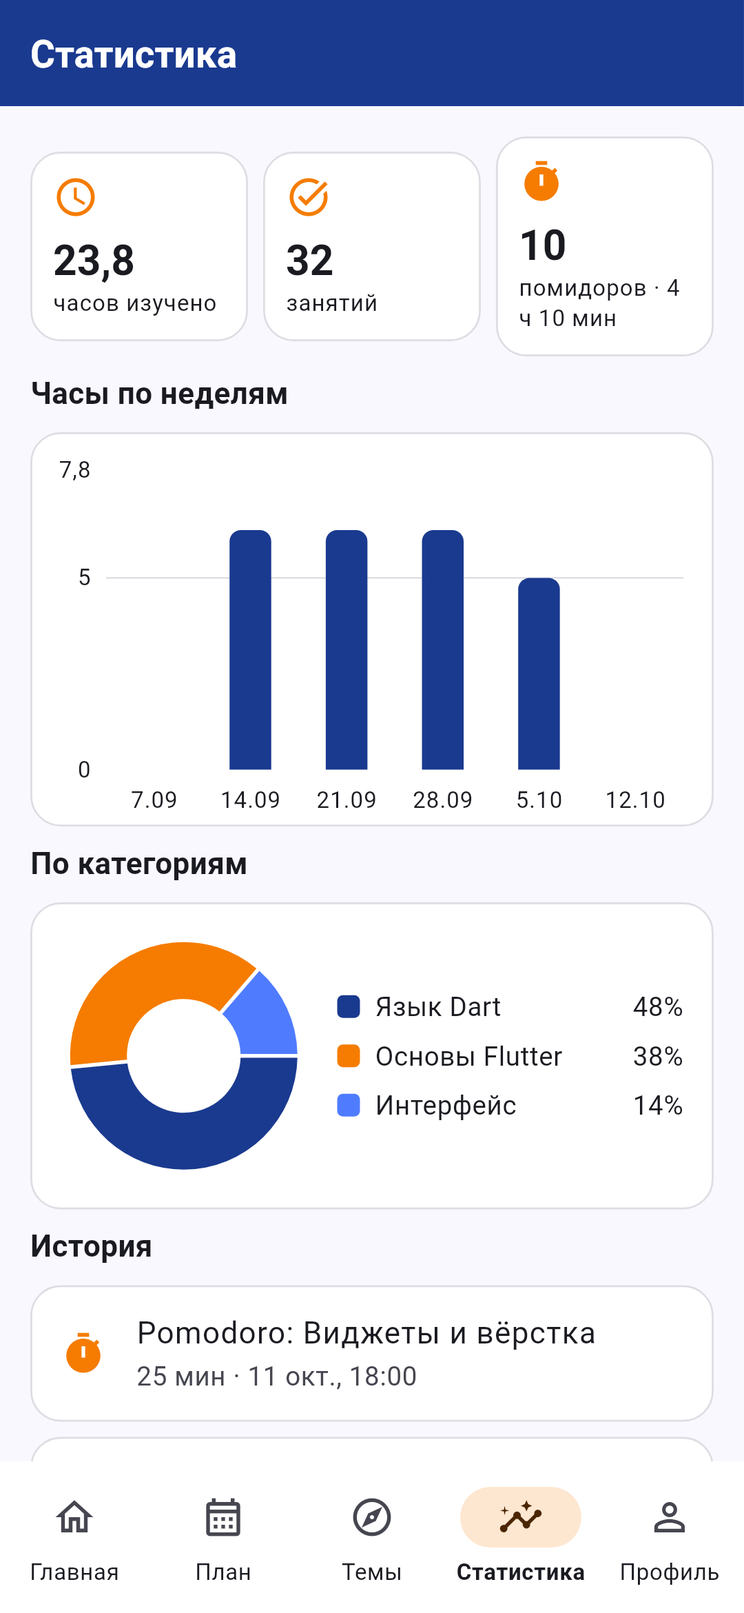
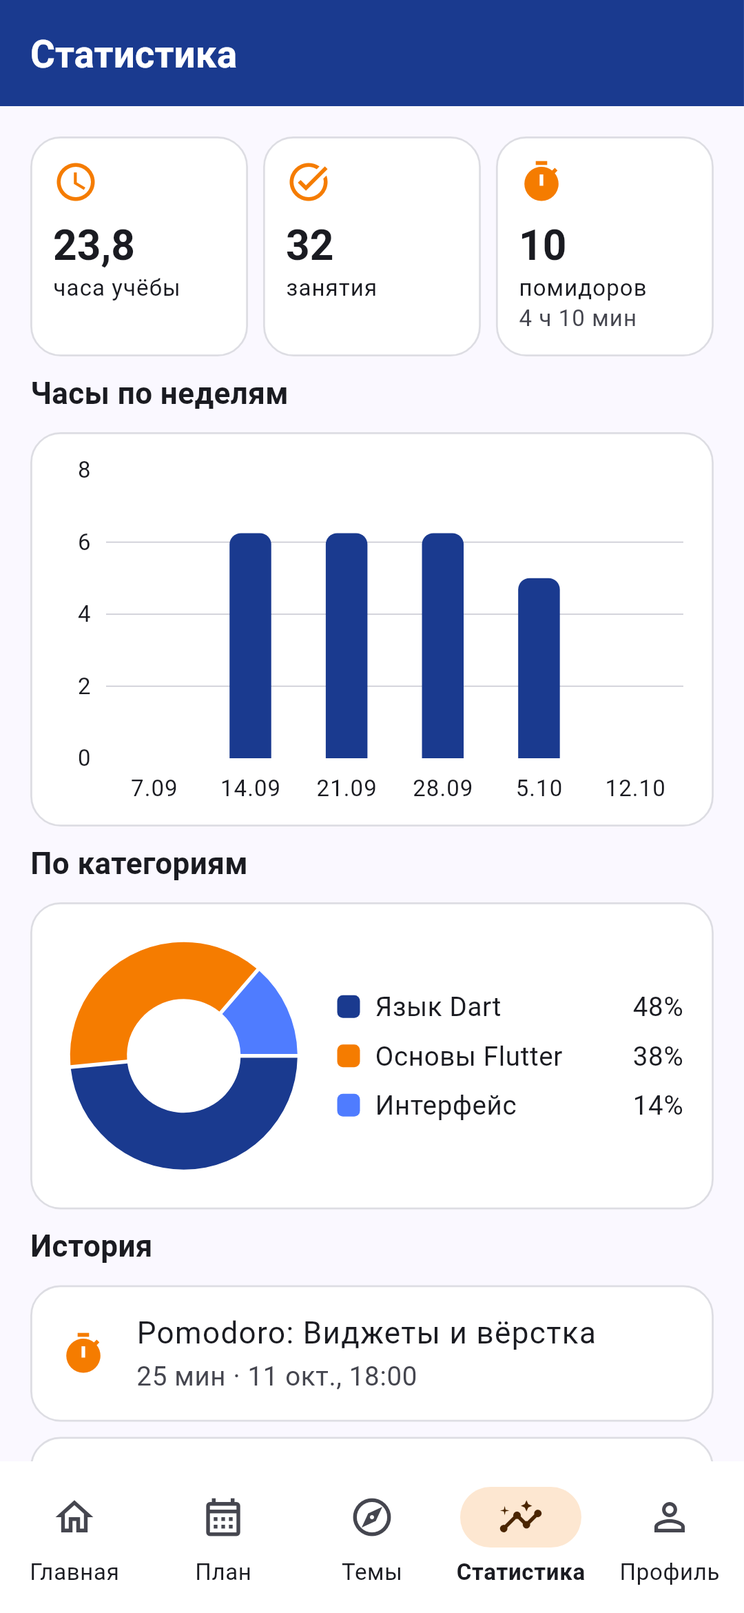
Документация: ошибки № 13–23, матрица снимков, 97 тестов, новые скриншоты
Claude-Session: https://claude.ai/code/session_01M7NW7KzTcoGm6LcSGjUPNJ

diff --git a/docs/coursework/testing.md b/docs/coursework/testing.md
@@ -8,7 +8,7 @@
 2. **Виджет-тесты** запускают экраны или всё приложение в тестовой среде Flutter. База данных — настоящая SQLite в оперативной памяти, время зафиксировано (понедельник, 12.10.2026), уведомления заменены заглушкой. Так тесты не зависят от дня запуска и не трогают данные пользователя.
 3. **Интеграционный тест** запускает настоящее приложение в окне операционной системы и проходит сценарий как пользователь [22].
 
-Кроме автоматических тестов использовались ручные проверки: скриншоты всех экранов (генератор `tool/screenshots`), запуск настольной версии, сверка настроек проекта с документацией пакетов.
+Кроме автоматических тестов использовались ручные проверки: скриншоты всех экранов (генератор `tool/screenshots`), запуск настольной версии, сверка настроек проекта с документацией пакетов. Перед сдачей интерфейс проверен по матрице снимков (`tool/screenshots/qa_matrix_test.dart`): каждый экран снимается в семи вариантах — светлая и тёмная тема, телефон 393×851, маленький телефон 360×640, крупный системный шрифт (130 %), горизонтальная ориентация и окно 1280×800, у длинных экранов дополнительно снимается конец. Всего 280 снимков; ошибки вёрстки, которые сообщает Flutter, программа собирает в отдельный файл, а сами снимки просматриваются вручную.
 
 Все тесты запускаются автоматически в GitHub Actions при каждой отправке кода (файл `.github/workflows/build.yml`): проверка форматирования, `flutter analyze`, `flutter test`, интеграционный тест в Linux на виртуальном экране, затем сборка APK и версии для Windows.
 
@@ -24,6 +24,7 @@
 | `test/core/validators_test.dart` | Модульный | Правила для email, пароля, имени, часов | 9 |
 | `test/core/password_hasher_test.dart` | Модульный | PBKDF2-HMAC-SHA256 по эталонным значениям, соль, проверка пароля, совместимость со старыми хэшами SHA-256 | 11 |
 | `test/core/router_test.dart` | Модульный | Правило доступа `redirect`: закрытые экраны без входа недоступны | 3 |
+| `test/core/formatters_test.dart` | Модульный | Склонение слов после чисел, «часа» после дробного числа часов, запись часов и минут | 3 |
 | `test/data/catalog_test.dart` | Модульный | Загрузка каталога из JSON, понятная ошибка при повреждённом файле, кэширование | 3 |
 | `test/data/repositories_test.dart` | Модульный (база SQLite в памяти) | Регистрация, вход, смена пароля, миграция хэшей, удаление аккаунта; планы, занятия, свои темы, избранное, заметки | 18 |
 | `test/presentation/auth_screens_test.dart` | Виджет | Ошибки форм входа и регистрации, автовход | 5 |
@@ -32,7 +33,7 @@
 | `test/presentation/profile_test.dart` | Виджет | Напоминание, недоступность напоминаний на компьютере, удаление аккаунта | 3 |
 | `test/presentation/adaptive_test.dart` | Виджет | Все 15 экранов и онбординг без переполнения на телефоне, телефоне в горизонтальной ориентации и в окне Windows | 3 |
 | `integration_test/app_test.dart` | Интеграционный | Настоящее приложение: регистрация, вход, создание плана, вкладки, выход | 1 |
-| **Итого** | | | **95** |
+| **Итого** | | | **98** |
 
 ## 3. Тест-кейсы
 
@@ -49,7 +50,7 @@
 | ТК-07 | Автовход | Войти с «Запомнить меня», перезапустить приложение | Сразу открывается главная | `auth_screens_test` |
 | ТК-08 | Сессия удалённого пользователя | В настройках сохранён id пользователя, которого нет в базе | Открывается экран входа | `auth_screens_test` |
 | ТК-09 | Закрытые разделы | Без входа открыть адрес `/home`, `/plan` | Перенаправление на вход | `router_test` |
-| ТК-10 | Создание плана | Направление → пропустить тест → расписание → «Составить план» → «Сохранить» | Предпросмотр «Ваш план готов», затем на главной задачи на сегодня | `app_flow_test`, `integration_test` |
+| ТК-10 | Создание плана | Направление → пропустить тест → расписание → «Сформировать план» → «Начать обучение» | Предпросмотр «Ваш план готов», затем на главной задачи на сегодня | `app_flow_test`, `integration_test` |
 | ТК-11 | Диагностический тест | Верно ответить на вопрос по сложной теме | Тема и все её предшественники исключаются из плана | `knowledge_estimator_test`, `plan_generator_test` |
 | ТК-12 | Порядок тем | Построить план по графу тем | Каждая тема идёт после своих зависимостей; цикл в данных даёт понятную ошибку | `topological_sort_test`, `plan_generator_test` |
 | ТК-13 | Лимит часов | 7 часов в неделю, 5 учебных дней | Занятия только в выбранные дни, дневной лимит не превышен, общий объём сохранён | `scheduler_test` |
@@ -74,6 +75,8 @@
 | ТК-32 | Адаптивность | Открыть все экраны на телефоне, в горизонтальной ориентации и в окне 1280×800 | Нет переполнения; на широком экране боковая панель вместо нижней | `adaptive_test` |
 | ТК-33 | Повреждённый каталог | Загрузить некорректный JSON направления | Понятное сообщение об ошибке вместо падения | `catalog_test` |
 | ТК-34 | Сценарий на настоящем приложении | Запустить приложение в окне Linux | Сценарий регистрация → вход → план → профиль → выход проходит | `integration_test` (ошибка № 11) |
+| ТК-35 | Узкий экран и крупный шрифт | Открыть все экраны на телефоне 360×640 и с системным шрифтом 130 % | Нет переполнения, слова не переносятся посреди слова, подписи вкладок в одну строку | `qa_matrix_test` и просмотр снимков (ошибки № 13, 17, 20, 21) |
+| ТК-36 | Склонение слов после чисел | Открыть статистику и профиль при 2 планах, 32 занятиях и 23,8 часа | «2 плана», «32 занятия», «23,8 часа» | `formatters_test` (ошибка № 14) |
 
 Ручные проверки:
 
@@ -84,6 +87,7 @@
 | РП-03 | Сверка Android-проекта с документацией flutter_local_notifications | Найдены ошибки № 8–9, исправлены |
 | РП-04 | Название и иконка приложения на всех платформах | Найдена ошибка № 10, исправлена |
 | РП-05 | Установка релизного APK на телефон, проверка напоминания и уведомления Pomodoro | [ПРОВЕРИТЬ на телефоне перед защитой: в среде разработки нет Android-устройства] |
+| РП-06 | Матрица снимков перед сдачей: 280 снимков в 7 вариантах (`tool/screenshots/qa_matrix_test.dart`) | Найдены ошибки № 13–22, исправлены |
 
 ## 4. Найденные и исправленные ошибки
 
@@ -101,13 +105,24 @@
 | 10 | Название приложения | Проверка манифестов | Под иконкой было техническое имя «marshrut» | Название «Маршрут» во всех манифестах |
 | 11 | Интеграционный тест | Запуск после перехода на PBKDF2 | Тест ждал текст email, который есть и на экране регистрации; регистрация стала дольше, и тест искал поле входа слишком рано | Тест ждёт поле пароля на экране входа |
 | 12 | Диалог переименования плана | Новый виджет-тест `features_test` | Контроллер поля освобождался сразу после закрытия диалога, а анимация закрытия ещё перерисовывала поле: «TextEditingController was used after being disposed» | Диалог вынесен в `StatefulWidget`, контроллер освобождается в `dispose()` |
+| 13 | Профиль на узком экране и с крупным шрифтом | Матрица снимков | Переключатель темы стоял в одной строке с подписью и занимал почти всю ширину; подпись «Тема оформления» переносилась посреди слова | Подпись над переключателем, сегменты «Светлая», «Авто», «Тёмная»; текст сегмента уменьшается, а не переносится |
+| 14 | Статистика и профиль: подписи под числами | Матрица снимков | Подписи были записаны одной формой: «32 занятий», «2 планов», «23,8 часов» | Склонение через `Fmt.plural`, после дробного числа часов — `Fmt.hoursWord` («23,8 часа») |
+| 15 | Статистика: карточки итогов и график | Матрица снимков | Подпись «помидоров · 4 ч 10 мин» переносилась посреди фразы, карточки были разной высоты; верх оси подписывался дробным максимумом «7,8» | Время фокуса отдельной строкой, карточки одной высоты, верх шкалы округляется до значения с целым шагом |
+| 16 | Тёмная тема: график, диаграмма, предпросмотр плана | Матрица снимков | Тёмно-синие столбцы, сегмент диаграммы и кружки с номерами тем сливались с тёмно-синим фоном | В тёмной теме эти элементы светло-синие |
+| 17 | Нижняя панель вкладок с крупным шрифтом | Матрица снимков (шрифт 130 %) | Подпись «Статистика» не помещалась и переносилась по буквам | Подписи вкладок не масштабируются вместе с системным шрифтом |
+| 18 | Предпросмотр плана | Матрица снимков | Кнопка «Начать обучение» стояла после списка из 18–20 тем, до неё нужно было прокручивать | Кнопка закреплена внизу экрана |
+| 19 | Диалог удаления аккаунта в окне Windows | Матрица снимков (окно 1280×800) | Диалог растягивался по ширине текста, пояснение шло одной длинной строкой | Ширина содержимого ограничена 400 пикселями |
+| 20 | Своя тема: чипы «Изучать после тем» | Матрица снимков (шрифт 130 %) | Длинные названия тем обрезались посреди буквы | Многоточие в конце названия |
+| 21 | Главная на узком экране | Матрица снимков (360×640) | Текст «Пропущено 2 занятия» стоял вплотную к кнопке «Перестроить» | Отступ между текстом и кнопкой |
+| 22 | Экран заметки | Матрица снимков: переход с новой заметки сразу к существующей | Маршрут `/notes/edit` с другим параметром переиспользовал состояние экрана, поля оставались пустыми | У экрана заметки ключ по адресу, состояние создаётся заново |
+| 23 | Виджет-тесты с прокруткой | Падение `adaptive_test` и `profile_test` после изменения профиля | После `ensureVisible` не рисовался новый кадр, и `tap()` брал старые координаты кнопки, нажимая мимо неё | После прокрутки вызывается `pump()` |
 
-Ошибки № 1–7 найдены и исправлены в 1 семестре, № 8–12 — во 2 семестре. Рабочий журнал с подробностями: `docs/coursework/bugs_log.md`.
+Ошибки № 1–7 найдены и исправлены в 1 семестре, № 8–23 — во 2 семестре (№ 13–23 — при финальной проверке перед сдачей). Рабочий журнал с подробностями: `docs/coursework/bugs_log.md`.
 
 ## 5. Результаты
 
 - `flutter analyze`: замечаний нет.
-- `flutter test`: 94 теста пройдены.
+- `flutter test`: 97 тестов пройдены.
 - `flutter test integration_test -d linux`: интеграционный тест пройден.
 - GitHub Actions: все шаги проверки выполняются автоматически при каждой отправке кода.
 
@@ -118,4 +133,5 @@ flutter analyze
 flutter test                                   # модульные и виджет-тесты
 flutter test integration_test -d windows       # интеграционный тест (или -d linux, или телефон)
 flutter test tool/screenshots/screenshots_test.dart   # пересоздать скриншоты
+flutter test tool/screenshots/qa_matrix_test.dart     # матрица снимков: build/qa_screens/
 ```

diff --git a/docs/criteria_semester2.md b/docs/criteria_semester2.md
@@ -6,12 +6,12 @@
 | № | Критерий (баллы) | Где реализовано | Как показать |
 |---|---|---|---|
 | 1 | Анализ проекта 1 семестра и функциональное планирование (5) | `docs/coursework/semester2_analysis.md`: как искали недостатки, таблица из 8 недостатков с приоритетами, план развития со статусами, ограничения на будущее | Открыть файл: недостатки (SHA-256, нет удаления аккаунта, настройки уведомлений Android, нет иконки и APK, нет CI, мало тестов сценариев) и что сделано по каждому |
-| 2 | Полная разработка основного функционала (15) | Онбординг `lib/presentation/screens/onboarding/`, алгоритм `lib/domain/planner/`, план `lib/presentation/screens/plan/`, главная `home_screen.dart` | Создать план: направление → тест → расписание → предпросмотр (подсказка о дедлайне и кнопка «Установить N ч/нед») → «Сохранить». Отметить занятие на главной; пропустить и нажать «Перестроить»; изменить расписание в настройках плана. Скриншоты `05`, `06`, `14`–`19`. Тесты `test/domain/`, `integration_test/` |
+| 2 | Полная разработка основного функционала (15) | Онбординг `lib/presentation/screens/onboarding/`, алгоритм `lib/domain/planner/`, план `lib/presentation/screens/plan/`, главная `home_screen.dart` | Создать план: направление → тест → расписание → предпросмотр (подсказка о дедлайне и кнопка «Установить N ч/нед») → «Начать обучение». Отметить занятие на главной; пропустить и нажать «Перестроить»; изменить расписание в настройках плана. Скриншоты `05`, `06`, `14`–`19`. Тесты `test/domain/`, `integration_test/` |
 | 3 | Работа с данными и хранение (15) | База drift: 8 таблиц, каскадное удаление (`lib/data/db/app_database.dart`); репозитории `lib/data/repositories/`; ошибки — `AppException` | CRUD через интерфейс: заметки (создать, найти, изменить, удалить), свои темы, «Мои планы» (переименовать, сделать активным, удалить), профиль (изменить), аккаунт (удалить). Пустое название и занятый email дают сообщения об ошибке. ER-диаграмма — рисунок 2.2 курсовой. Тесты `test/data/repositories_test.dart`, `test/presentation/features_test.dart` |
 | 4 | Дополнительный функционал (10) | Поиск и категории (`topics_screen.dart`, `notes_screen.dart`, `plan_screen.dart`), избранное, уведомления (`reminder_service_impl.dart`), история и графики (`stats_screen.dart`), Pomodoro, несколько планов, перепланирование, тёмная тема | Темы: поиск, фильтр по категориям, звезда «Избранное». Статистика: график часов по неделям, круговая диаграмма по категориям, история. Pomodoro: старт, уведомление по окончании. Профиль: ежедневное напоминание. Скриншоты `07`, `09`, `11`–`13`, `20`, `21` |
 | 5 | Совершенствование профиля (5) | `lib/presentation/screens/profile/`: просмотр, редактирование имени, email и цвета аватара, смена пароля, тема оформления, напоминание, удаление аккаунта с подтверждением паролем | Профиль → «Редактировать профиль» → сохранить; «Сменить пароль» с неверным текущим паролем; «Удалить аккаунт» с неверным паролем (скриншот `25_delete_account.png`). Тесты `profile_test.dart`, `repositories_test.dart` |
-| 6 | Совершенствование UI/UX (5) | Тема Material 3 в тёмно-синем и оранжевом цветах (`lib/core/theme/app_theme.dart`), иконка и название «Маршрут», пустые состояния, подтверждение необратимых действий, адаптивная вёрстка (`ContentFrame`, `NavigationRail` от 840 px) | Показать светлую и тёмную темы, окно Windows с боковой панелью (скриншоты `22`, `23`), горизонтальную ориентацию (`24`), иконку на рабочем столе телефона. Визуальные ошибки, найденные по скриншотам, исправлены (ошибки № 1–4 в `testing.md`). Тест `adaptive_test.dart` открывает все экраны на трёх размерах |
-| 7 | Тестирование и исправление ошибок (10) | `docs/coursework/testing.md`: 94 модульных и виджет-теста, интеграционный тест, 34 тест-кейса, 5 ручных проверок, 12 найденных и исправленных ошибок; GitHub Actions `.github/workflows/build.yml` | Запустить `flutter test` (94 теста) и `flutter test integration_test -d windows`. Показать вкладку Actions: зелёные проверки на каждом изменении. Раздел 2.7 курсовой |
+| 6 | Совершенствование UI/UX (5) | Тема Material 3 в тёмно-синем и оранжевом цветах (`lib/core/theme/app_theme.dart`), иконка и название «Маршрут», пустые состояния, подтверждение необратимых действий, адаптивная вёрстка (`ContentFrame`, `NavigationRail` от 840 px) | Показать светлую и тёмную темы, окно Windows с боковой панелью (скриншоты `22`, `23`), горизонтальную ориентацию (`24`), иконку на рабочем столе телефона. Визуальные ошибки, найденные по скриншотам и матрице снимков, исправлены (ошибки № 1–4 и 13–22 в `testing.md`). Тест `adaptive_test.dart` открывает все экраны на трёх размерах |
+| 7 | Тестирование и исправление ошибок (10) | `docs/coursework/testing.md`: 97 модульных и виджет-тестов, интеграционный тест, 36 тест-кейсов, 6 ручных проверок (в том числе матрица из 280 снимков экранов), 23 найденные и исправленные ошибки; GitHub Actions `.github/workflows/build.yml` | Запустить `flutter test` (97 тестов) и `flutter test integration_test -d windows`. Показать вкладку Actions: зелёные проверки на каждом изменении. Раздел 2.7 курсовой |
 | 8 | Практическая часть курсовой (10) | `docs/coursework/04_chapter2_practice.md` | Требования, архитектура (рисунок 2.1), база данных (ER-диаграмма), алгоритм со схемой и примером расчёта, навигация, оформление, адаптивность, 25 скриншотов, реализация модулей, тестирование, сборка APK |
 | 9 | Завершение и оформление курсовой (10) | `docs/coursework/Курсовая_Маршрут.docx`, `.pdf`; сборка `tool/coursework/build_coursework.py` | Титульный лист, содержание, введение (8 задач), глава 1, глава 2, заключение, список литературы (43 источника, ГОСТ 7.1-2003), приложения А–И с кодом. Times New Roman 14, интервал 1,5, поля 30/15/20/20 мм, нумерация страниц |
 | — | Итоговая защита (10 по сводной таблице критериев) | Сценарий защиты, ответы на вопросы `docs/concept/questions.md`, релизный APK | Установить APK со страницы Releases на телефон, пройти сценарий: регистрация → создание плана → отметка занятия → перестройка → заметка → статистика → профиль → выход |

diff --git a/docs/coursework/04_chapter2_practice.md b/docs/coursework/04_chapter2_practice.md
@@ -383,7 +383,7 @@ String? authRedirect(AuthStatus status, String location) {
 
 ### 2.5.3 Адаптивность
 
-На широком экране (от 840 логических пикселей, класс «расширенное окно» по рекомендациям Android [43]) нижняя панель вкладок заменяется боковой (`NavigationRail`), а содержимое экранов ограничивается колонкой шириной 720 пикселей по центру, чтобы строки текста не растягивались на весь монитор. Работа на телефоне в обеих ориентациях и в окне 1280×800 проверяется автоматическим тестом (раздел 2.7).
+На широком экране (от 840 логических пикселей, класс «расширенное окно» по рекомендациям Android [43]) нижняя панель вкладок заменяется боковой (`NavigationRail`), а содержимое экранов ограничивается колонкой шириной 720 пикселей по центру, чтобы строки текста не растягивались на весь монитор. Работа на телефоне в обеих ориентациях и в окне 1280×800 проверяется автоматическим тестом (раздел 2.7). Подписи вкладок не увеличиваются вместе с системным шрифтом, чтобы «Статистика» не переносилась по буквам, а остальной текст масштабируется. Перед сдачей все экраны дополнительно сняты в семи вариантах: светлая и тёмная тема, маленький телефон 360×640, крупный шрифт 130 %, горизонтальная ориентация и окно компьютера; по этим снимкам исправлено десять недочётов (ошибки № 13–22 в разделе о тестировании).
 
 ### 2.5.4 Экраны приложения
 
@@ -564,15 +564,16 @@ String? authRedirect(AuthStatus status, String location) {
 | Вид тестирования | Объём | Результат |
 |---|---|---|
 | Модульные тесты: алгоритм (`test/domain`) | 32 теста | Пройдены |
-| Модульные тесты: валидаторы, пароли, маршрутизация, каталог | 26 тестов | Пройдены |
+| Модульные тесты: валидаторы, пароли, маршрутизация, каталог, форматирование | 29 тестов | Пройдены |
 | Тесты слоя данных на SQLite в памяти | 18 тестов | Пройдены |
 | Виджет-тесты экранов и сценариев | 18 тестов | Пройдены |
 | Интеграционный тест настоящего приложения (окно Linux) | 1 сценарий | Пройден |
 | Статический анализ `flutter analyze` | Весь проект | Замечаний нет |
 | Ручная проверка скриншотов, настольной версии, настроек Android | 25 скриншотов, 3 платформы | Найдено и исправлено 10 ошибок |
-| Тест-кейсы | 34 автоматизированных, 5 ручных | См. `testing.md` |
+| Матрица снимков перед сдачей | 280 снимков в 7 вариантах | Найдено и исправлено 10 ошибок |
+| Тест-кейсы | 36 автоматизированных, 6 ручных | См. `testing.md` |
 
-Всего найдено и исправлено 12 ошибок. Две из них нашли автоматические тесты: ошибку освобождения контроллера в диалоге переименования плана и слишком раннее ожидание экрана входа в интеграционном тесте.
+Всего найдено и исправлено 23 ошибки. Три из них нашли автоматические тесты: ошибку освобождения контроллера в диалоге переименования плана, слишком раннее ожидание экрана входа в интеграционном тесте и нажатие по старым координатам после прокрутки в самих виджет-тестах.
 
 Тесты используют базу SQLite в оперативной памяти и фиксированную дату (понедельник 12.10.2026), поэтому результат не зависит от дня запуска и не затрагивает данные пользователя. Тест адаптивности открывает все экраны на трёх размерах окна; ошибка вёрстки (переполнение) автоматически роняет тест.
 
@@ -597,4 +598,4 @@ String? authRedirect(AuthStatus status, String location) {
 4. Реализован алгоритм формирования персонального плана: исключение известных тем, топологическая сортировка Кана, раскладка по дням с лимитом времени, интервальные повторения, проверка дедлайна с подбором нужного числа часов и перепланирование.
 5. Реализованы экраны приложения в стиле Material 3 с фирменными цветами, светлой и тёмной темами и адаптивной вёрсткой для телефона и компьютера.
 6. По итогам анализа версии 1 семестра усилена защита паролей (PBKDF2), добавлено удаление аккаунта, настроены уведомления Android, сделаны иконка и релизная сборка.
-7. Приложение проверено 94 модульными и виджет-тестами и интеграционным тестом; найдено и исправлено 12 ошибок. Сборка APK и версии для Windows автоматизирована.
+7. Приложение проверено 97 модульными и виджет-тестами, интеграционным тестом и матрицей из 280 снимков экранов; найдено и исправлено 23 ошибки. Сборка APK и версии для Windows автоматизирована.

diff --git a/docs/coursework/bugs_log.md b/docs/coursework/bugs_log.md
@@ -18,3 +18,14 @@
 | 10 | Название приложения на телефоне | Проверка манифестов | Под иконкой отображалось техническое имя «marshrut» (Android, веб, iOS) | Название заменено на «Маршрут» во всех манифестах |
 | 11 | Интеграционный тест (`integration_test/app_test.dart`) | Запуск теста после перехода на PBKDF2 | Тест ждал появления текста «demo@mail.ru», чтобы убедиться, что открылся экран входа. Этот текст есть и в форме регистрации, а регистрация стала дольше (хэш считается в фоновом изоляте), поэтому тест искал поле пароля входа раньше, чем открывался экран | Тест ждёт само поле пароля на экране входа, а email проверяет отдельно |
 | 12 | «Мои планы»: диалог переименования плана | Виджет-тест `test/presentation/features_test.dart` («мои планы: переименование и удаление») | Контроллер поля ввода освобождался сразу после закрытия диалога (`whenComplete(controller.dispose)`), а анимация закрытия ещё перерисовывала поле. Flutter сообщал «TextEditingController was used after being disposed» | Диалог вынесен в отдельный `StatefulWidget`, контроллер освобождается в `dispose()` после окончания анимации |
+| 13 | Профиль на узком экране и с крупным шрифтом | Матрица снимков | Переключатель темы стоял в одной строке с подписью и занимал почти всю ширину; подпись «Тема оформления» переносилась посреди слова | Подпись над переключателем, сегменты «Светлая», «Авто», «Тёмная»; текст сегмента уменьшается, а не переносится |
+| 14 | Статистика и профиль: подписи под числами | Матрица снимков | Подписи были записаны одной формой: «32 занятий», «2 планов», «23,8 часов» | Склонение через `Fmt.plural`, после дробного числа часов — `Fmt.hoursWord` («23,8 часа») |
+| 15 | Статистика: карточки итогов и график | Матрица снимков | Подпись «помидоров · 4 ч 10 мин» переносилась посреди фразы, карточки были разной высоты; верх оси подписывался дробным максимумом «7,8» | Время фокуса отдельной строкой, карточки одной высоты, верх шкалы округляется до значения с целым шагом |
+| 16 | Тёмная тема: график, диаграмма, предпросмотр плана | Матрица снимков | Тёмно-синие столбцы, сегмент диаграммы и кружки с номерами тем сливались с тёмно-синим фоном | В тёмной теме эти элементы светло-синие |
+| 17 | Нижняя панель вкладок с крупным шрифтом | Матрица снимков (шрифт 130 %) | Подпись «Статистика» не помещалась и переносилась по буквам | Подписи вкладок не масштабируются вместе с системным шрифтом |
+| 18 | Предпросмотр плана | Матрица снимков | Кнопка «Начать обучение» стояла после списка из 18–20 тем, до неё нужно было прокручивать | Кнопка закреплена внизу экрана |
+| 19 | Диалог удаления аккаунта в окне Windows | Матрица снимков (окно 1280×800) | Диалог растягивался по ширине текста, пояснение шло одной длинной строкой | Ширина содержимого ограничена 400 пикселями |
+| 20 | Своя тема: чипы «Изучать после тем» | Матрица снимков (шрифт 130 %) | Длинные названия тем обрезались посреди буквы | Многоточие в конце названия |
+| 21 | Главная на узком экране | Матрица снимков (360×640) | Текст «Пропущено 2 занятия» стоял вплотную к кнопке «Перестроить» | Отступ между текстом и кнопкой |
+| 22 | Экран заметки | Матрица снимков: переход с новой заметки сразу к существующей | Маршрут `/notes/edit` с другим параметром переиспользовал состояние экрана, поля оставались пустыми | У экрана заметки ключ по адресу, состояние создаётся заново |
+| 23 | Виджет-тесты с прокруткой | Падение `adaptive_test` и `profile_test` после изменения профиля | После `ensureVisible` не рисовался новый кадр, и `tap()` брал старые координаты кнопки, нажимая мимо неё | После прокрутки вызывается `pump()` |

diff --git a/docs/criteria_semester1.md b/docs/criteria_semester1.md
@@ -13,7 +13,7 @@
 | 6 | Главная страница (10) | `lib/presentation/screens/home/home_screen.dart` | Кольцо прогресса, изученные часы, серия дней, дни до дедлайна, задачи на сегодня с отметкой, баннер «Пропущено N занятий» с кнопкой «Перестроить», запуск Pomodoro. Скриншоты `05_home.png`, `20_home_dark.png` |
 | 7 | Основная навигация (5) | `lib/presentation/screens/shell/main_shell.dart`, маршруты в `lib/core/router/app_router.dart` | Пройти по пяти вкладкам: Главная, План, Темы, Статистика, Профиль. Состояние каждой вкладки сохраняется. На широком экране вкладки слева (скриншот `22_desktop_home.png`). Тест `test/presentation/adaptive_test.dart` открывает все экраны на трёх размерах |
 | 8 | Раздел «Профиль» (5) | `lib/presentation/screens/profile/profile_screen.dart` | Аватар с инициалом, имя, email, дата регистрации, число планов, занятий и часов; переходы к редактированию профиля, смене пароля, заметкам и планам; выбор темы оформления. Скриншот `10_profile.png` |
-| 9 | Основной раздел (10) | Онбординг `lib/presentation/screens/onboarding/`, алгоритм `lib/domain/planner/`, план `lib/presentation/screens/plan/` | «Создать план» → направление → диагностический тест → часы, дни и дедлайн → предпросмотр с порядком тем → «Сохранить». Затем отметить занятие на главной или в плане. Скриншоты `16`–`19`, `06_plan.png`, `14_session.png`. Алгоритм покрыт тестами `test/domain/` |
+| 9 | Основной раздел (10) | Онбординг `lib/presentation/screens/onboarding/`, алгоритм `lib/domain/planner/`, план `lib/presentation/screens/plan/` | «Создать план» → направление → диагностический тест → часы, дни и дедлайн → предпросмотр с порядком тем → «Начать обучение». Затем отметить занятие на главной или в плане. Скриншоты `16`–`19`, `06_plan.png`, `14_session.png`. Алгоритм покрыт тестами `test/domain/` |
 | 10 | Выход из системы (5) | Кнопка `logout_button` в профиле, `AuthController.logout`, правило доступа `authRedirect` в `app_router.dart` | Профиль → «Выйти» → подтвердить: открывается экран входа. Закрытые экраны без входа недоступны, redirect возвращает на вход. Тесты `test/presentation/app_flow_test.dart`, `test/core/router_test.dart` |
 | 11 | Введение (5) | `docs/coursework/01_introduction.md` | Актуальность, цель, задачи, объект и предмет разработки, практическая значимость, структура работы |
 | 12 | Глава 1, теоретическая часть (10) | `docs/coursework/02_chapter1_theory.md` | 1.1 предметная область (граф тем, алгоритм Кана, повторения, Pomodoro); 1.2 особенности мобильных приложений; 1.3 принципы разработки; 1.4 анализ аналогов (таблица 1.1); 1.5 обоснование технологий (таблицы 1.2–1.4); выводы |
@@ -26,4 +26,4 @@
   - число страниц у части книг в списке литературы;
   - какой ГОСТ требует колледж;
   - таблицу аналогов сверить с текущими версиями сервисов.
-- Тесты: `flutter analyze` (без замечаний) и `flutter test` (94 теста на конец 2 семестра).
+- Тесты: `flutter analyze` (без замечаний) и `flutter test` (97 тестов на конец 2 семестра).

diff --git a/docs/coursework/05_conclusion.md b/docs/coursework/05_conclusion.md
@@ -8,7 +8,7 @@
 4. **Обоснован выбор технологий:** Flutter и Dart, чистая архитектура, Riverpod, drift (SQLite), go_router, fl_chart, flutter_local_notifications, Material 3. Приложение работает без интернета и серверной части.
 5. **Разработан алгоритм формирования плана.** Известные по тесту темы исключаются, остальные упорядочиваются алгоритмом Кана, раскладываются по учебным дням с дневным лимитом и дополняются повторениями через 1, 3 и 7 дней. Затем проверяется дедлайн, и при необходимости алгоритм подсказывает нужное число часов в неделю. Перепланирование сохраняет выполненное и раскладывает остаток заново. Алгоритм выделен в слой на чистом Dart и покрыт 32 модульными тестами.
 6. **Спроектирован интерфейс и реализованы экраны:** заставка, регистрация, вход, главная, пять вкладок навигации, профиль, онбординг с диагностическим тестом, план, темы, статистика, заметки, Pomodoro, несколько планов. Интерфейс выполнен в стиле Material 3 в тёмно-синих и оранжевых цветах, есть тёмная тема, вёрстка адаптирована для телефона в обеих ориентациях и для окна компьютера.
-7. **Приложение протестировано:** 94 модульных и виджет-теста, интеграционный тест настоящего приложения, 34 тест-кейса и ручные проверки. Найдено и исправлено 12 ошибок.
+7. **Приложение протестировано:** 97 модульных и виджет-тестов, интеграционный тест настоящего приложения, 36 тест-кейсов, ручные проверки и матрица из 280 снимков экранов в светлой и тёмной теме, на разных размерах экрана и с крупным шрифтом. Найдено и исправлено 23 ошибки.
 8. **Первая версия приложения проанализирована и доработана.** Хранение паролей переведено с однократного SHA-256 на PBKDF2-HMAC-SHA256 со 100 000 итераций с автоматическим пересчётом старых хэшей, добавлено удаление аккаунта, исправлена настройка уведомлений Android, сделаны иконка и название приложения. Сборка релизного APK для Android и версии для Windows автоматизирована в GitHub Actions вместе с запуском всех тестов.
 
 **Практическая значимость.** Приложение можно использовать для реальной подготовки: в каталоге четыре направления (Flutter, Python, английский язык, алгоритмы), 75 тем с оценкой трудоёмкости, зависимостями и ссылками на материалы, а также 32 вопроса диагностического теста. Новое направление добавляется JSON-файлом без изменения кода.

diff --git a/docs/PROGRESS.md b/docs/PROGRESS.md
@@ -35,11 +35,12 @@
 - [x] Профиль: редактирование, смена пароля
 - [x] Безопасность: пароли PBKDF2-HMAC-SHA256 (100 000 итераций) вместо SHA-256, пересчёт старых хэшей при входе
 - [x] Удаление аккаунта с подтверждением паролем и каскадным удалением данных
-- [x] Тесты: юнит, виджет, интеграционный (94 + 1); `docs/coursework/testing.md` — 34 тест-кейса, 12 ошибок; GitHub Actions
+- [x] Тесты: юнит, виджет, интеграционный (97 + 1); `docs/coursework/testing.md` — 36 тест-кейсов, 23 ошибки; GitHub Actions
 - [x] Иконка для Android (адаптивная), Windows, iOS и веба; название «Маршрут»; настройки уведомлений Android по документации пакета
 - [x] Релизный APK и сборка для Windows в GitHub Actions (`.github/workflows/build.yml`), первый запуск зелёный
 - [x] Практическая глава (`04_chapter2_practice.md`), заключение, приложения А–И, единый список литературы (43 источника)
 - [x] Итоговый документ `docs/coursework/Курсовая_Маршрут.docx` и `.pdf` (сборка `tool/coursework/build_coursework.py`)
 - [x] README: скачивание, тесты, CI, сборка документа
 - [x] Таблица критериев 2 семестра (`docs/criteria_semester2.md`)
+- [x] Финальная проверка: матрица из 280 снимков (`tool/screenshots/qa_matrix_test.dart`), исправлены ошибки № 13–23, итоговый документ пересобран
 - [ ] Релиз v1.0.0 на странице Releases (публикует владелец репозитория: у сессии нет прав на теги)

diff --git a/README.md b/README.md
@@ -125,7 +125,7 @@ flutter test integration_test -d linux   # или -d windows, или на уст
   Splash → Регистрация → Вход → Главная → План → Профиль → Выход.
 - `integration_test` — тот же сценарий в настоящем окне приложения.
 
-Всего 94 модульных и виджет-теста и интеграционный тест. Тест-кейсы и найденные ошибки описаны
+Всего 97 модульных и виджет-тестов и интеграционный тест. Тест-кейсы и найденные ошибки описаны
 в [docs/coursework/testing.md](docs/coursework/testing.md).
 
 GitHub Actions ([.github/workflows/build.yml](.github/workflows/build.yml)) при каждой отправке кода
@@ -143,6 +143,13 @@ flutter test tool/screenshots/screenshots_test.dart
 ```
 
 Файлы появляются в `docs/coursework/screenshots/`.
+
+Для проверки перед сдачей каждый экран можно снять в семи вариантах (светлая и тёмная тема,
+маленький телефон, крупный шрифт, горизонтальная ориентация, окно компьютера):
+
+```bash
+flutter test tool/screenshots/qa_matrix_test.dart   # снимки в build/qa_screens/
+```
 
 ## Курсовая работа
 
